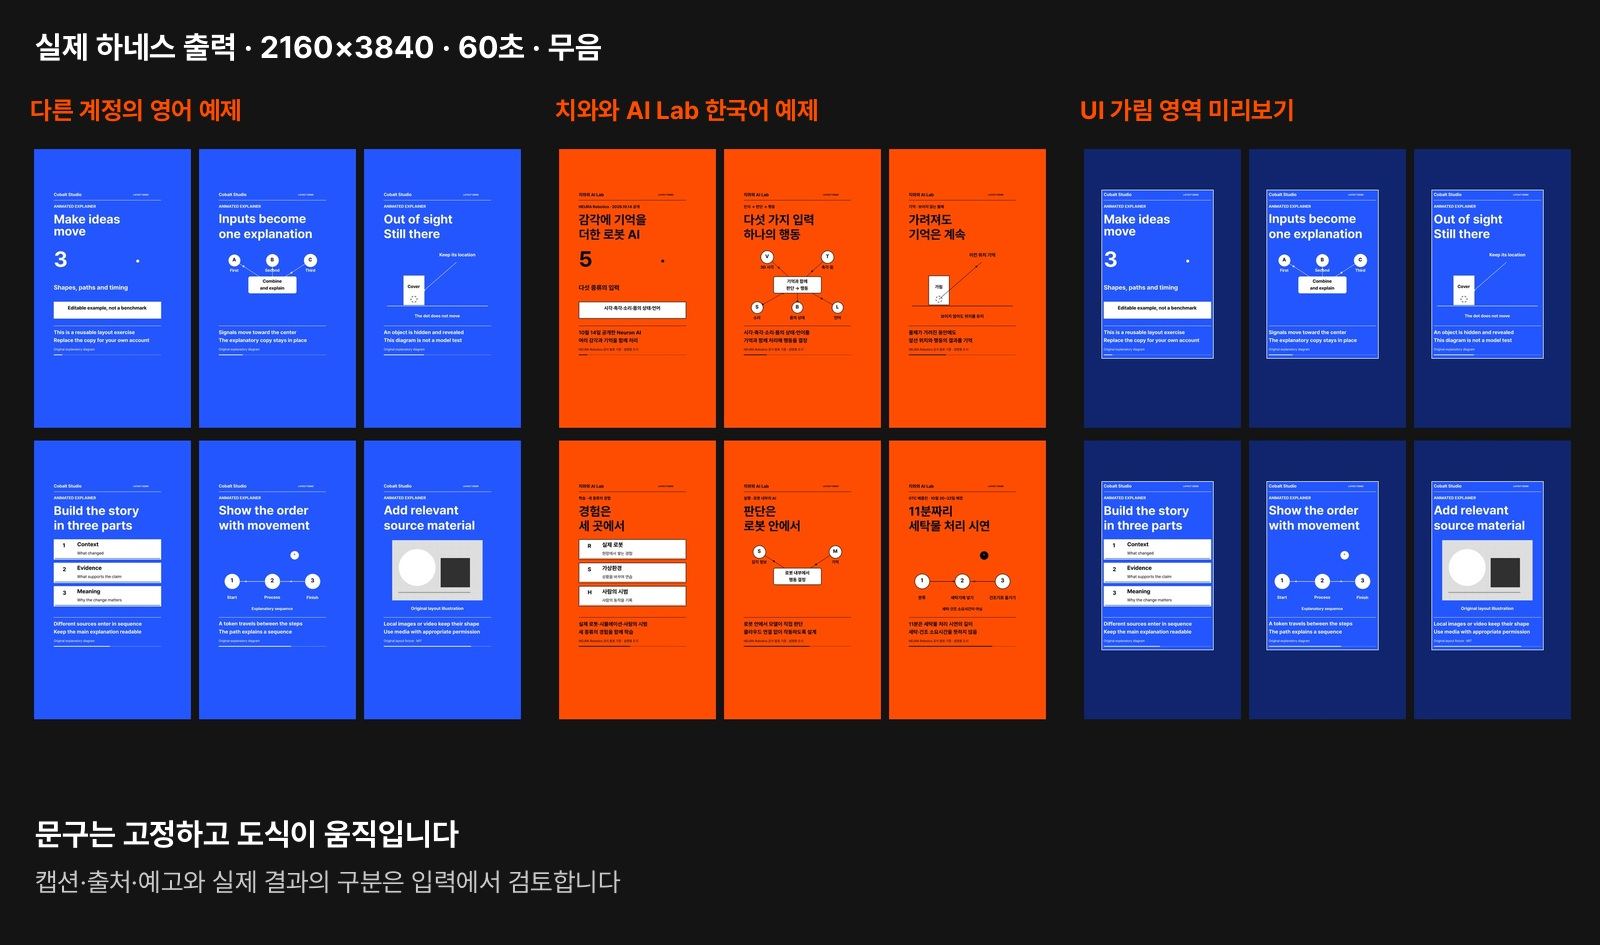
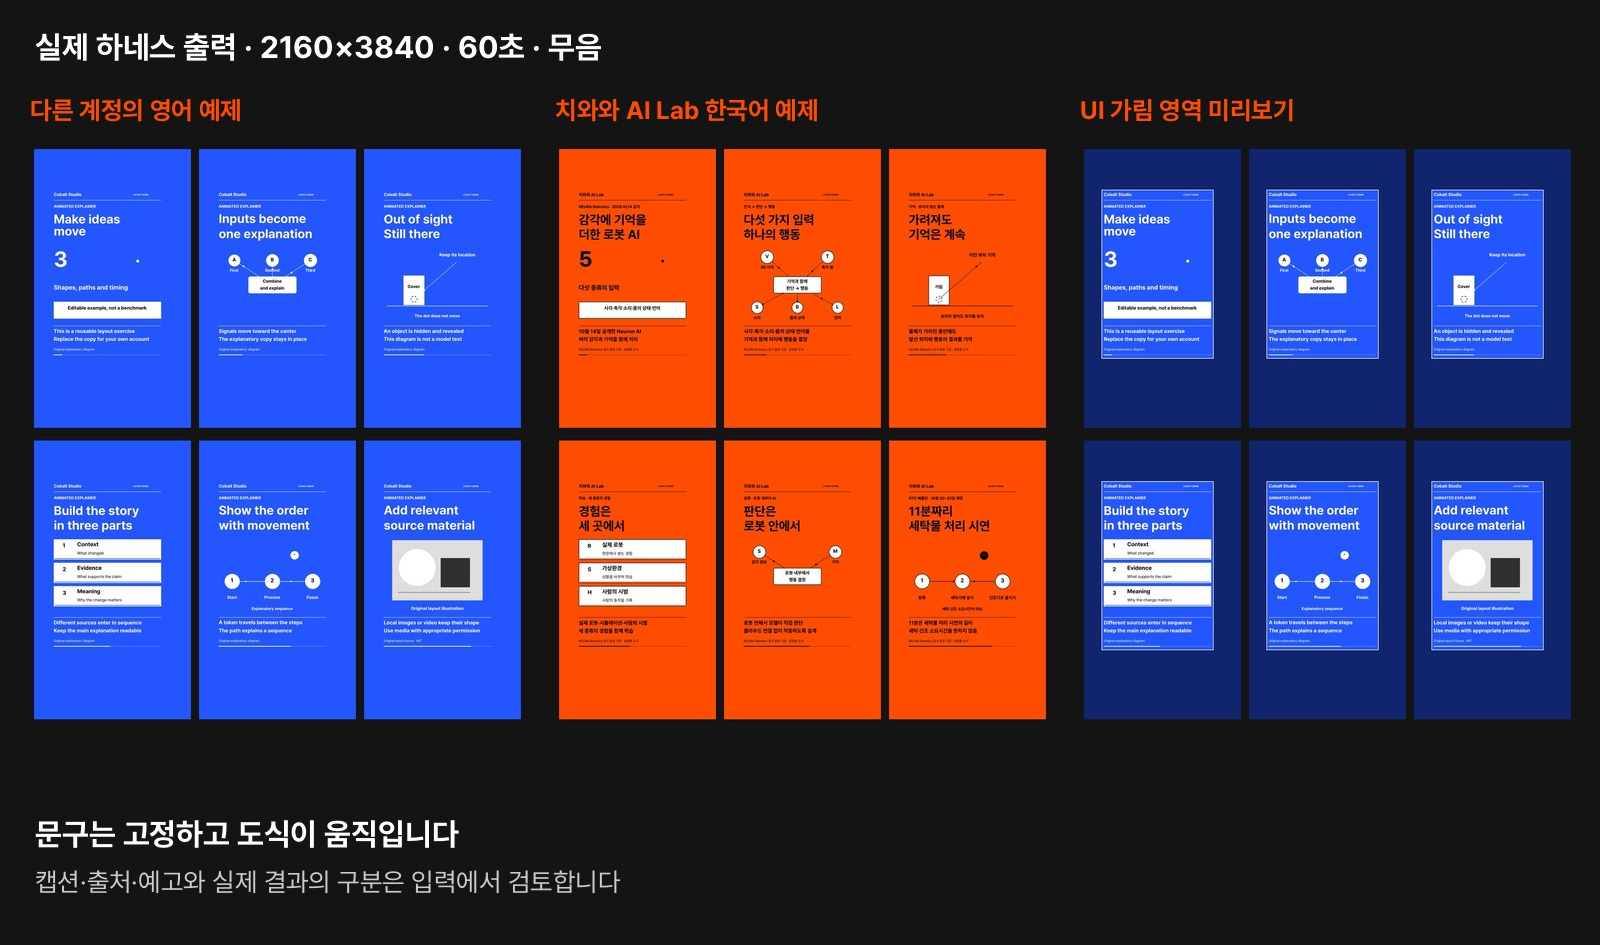
Reserve readable caption space across CJK and Latin fonts

diff --git a/tracks/auto-post/skills/instagram-content/scripts/render_reel.py b/tracks/auto-post/skills/instagram-content/scripts/render_reel.py
@@ -88,7 +88,7 @@ class Renderer:
         require(l >= sl-.01 and t >= st-.01 and r <= sr+.01 and b <= sb+.01,
                 f'{self.scene_id}: {label} exceeds the safe area: {box}. Shorten copy or adjust the layout.')
         limits = {'header': (0, .075), 'kicker': (.075, .13), 'title': (.13, .32),
-                  'visual': (.33, .785), 'body': (.80, .915), 'credit': (.925, .966)}
+                  'visual': (.33, .785), 'body': (.80, .925), 'credit': (.925, .966)}
         if self.section in limits:
             lo, hi = limits[self.section]
             require(t >= self.y(lo)-.01 and b <= self.y(hi)+.01,
@@ -164,7 +164,7 @@ class Renderer:
         self.section='body'
         self.line(d,(self.x(.02),self.y(.808),self.x(.98),self.y(.808)),2)
         for j,value in enumerate(scene['body']):
-            self.text(im,self.x(.02),self.y(.834+j*.047),value,36)
+            self.text(im,self.x(.02),self.y(.827+j*.047),value,36)
         self.section='credit'
         self.text(im,self.x(.02),self.y(.94),scene['credit'],22,bold=False)
         self.section='progress'

diff --git a/tracks/auto-post/skills/instagram-content/tests/test_reel.py b/tracks/auto-post/skills/instagram-content/tests/test_reel.py
@@ -114,7 +114,7 @@ class ReelTests(unittest.TestCase):
         hidden=renderer.frame(0,30)
         crop=lambda a,b:tuple(round(v*renderer.scale) for v in (renderer.x(.02),renderer.y(a),renderer.x(.98),renderer.y(b)))
         self.assertIsNotNone(ImageChops.difference(before.crop(crop(.33,.785)),hidden.crop(crop(.33,.785))).getbbox())
-        self.assertIsNone(ImageChops.difference(before.crop(crop(.80,.915)),hidden.crop(crop(.80,.915))).getbbox())
+        self.assertIsNone(ImageChops.difference(before.crop(crop(.80,.925)),hidden.crop(crop(.80,.925))).getbbox())
         self.assertEqual(before.size,(360,640))
 
     @unittest.skipUnless(shutil.which('ffmpeg') and shutil.which('ffprobe'),'FFmpeg required')

diff --git a/tracks/auto-post/projects/instagram-production/docs/reel-workflow.md b/tracks/auto-post/projects/instagram-production/docs/reel-workflow.md
@@ -39,6 +39,7 @@ FFmpeg/ffprobe는 별도로 설치합니다. 입력 검사만 실행할 때는 `
 2026-10-15에 macOS / Python 3.12.8에서 실행한 결과입니다. 이전 기여자의 기록을 이번 검증으로 바꾸지 않았습니다.
 
 - 기존 20개와 신규 8개를 합친 28개 테스트 통과
+- Linux의 Noto Sans CJK 글꼴에서 발견한 본문 높이 차이를 반영해 여백을 조정하고 같은 글꼴로 재검증
 - 영어 예제와 한국어 치와와 예제로 각각 실제 60초·2160×3840·30fps·1,800프레임 출력
 - 두 MP4 모두 H.264/yuv420p, BT.709, 영상 스트림 1개와 음성 스트림 0개, 전체 디코딩 통과
 - 원본에 음성이 있는 로컬 영상으로 음성 제거, 상대 경로, 다른 폴더에 복사한 스킬 실행 검증
